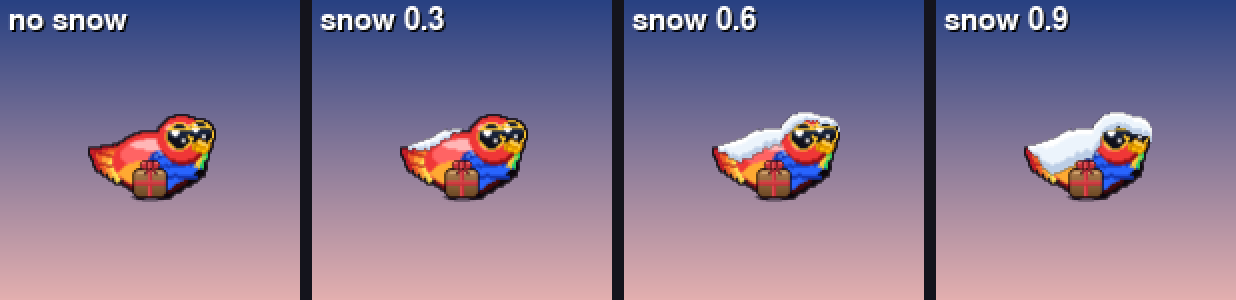
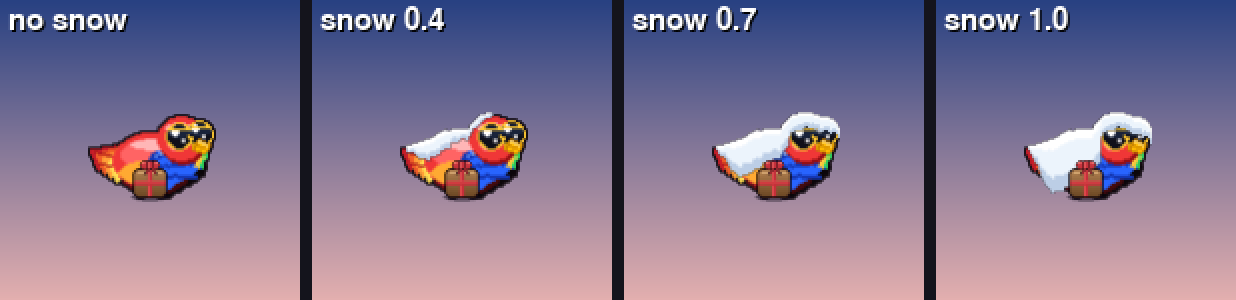
Snow round 3: slow gradual build/melt, bigger max, fix head jitter
- Timing: decouple melt from the storm fade. snow_load builds gradually
  (ACCUM 0.12->0.050) and melt stays ~0 until the storm has nearly passed
  (intensity < MELT_KNEE 0.12), then a slow MELT_RATE 0.035 clears it. Sim:
  reaches full ~285s, holds through the late squall, gone ~328s (was an
  ~8s spike).
- Bigger max: snow_fx MAXD 15->21 for a heavier pile at full load.
- Head jitter fix: rotate the snow overlay by the same 3deg-quantised tilt
  get_parrot uses, so it stays glued to the sprite during flaps (raw tilt
  shifted the head snow ~1px/frame).

https://claude.ai/code/session_01JWYQYgqQbSfQKYb7zu7YPg

diff --git a/game/world.py b/game/world.py
@@ -27,7 +27,7 @@ from game.config import (
     COIN_RUSH_INTERVAL, COIN_RUSH_GAP_BOOST, COIN_RUSH_COINS,
     WEATHER_HEAVY_THRESHOLD, WEATHER_COIN_SHAKE_AMP, WEATHER_PIP_SHIVER_AMP,
     WEATHER_FLAP_DAMPEN_MAX, WEATHER_WIND_LEAN_AMP, WEATHER_WIND_SCROLL_FACTOR,
-    WEATHER_SNOW_ACCUM_RATE, WEATHER_SNOW_MELT_BASE, WEATHER_SNOW_MELT_FADE,
+    WEATHER_SNOW_ACCUM_RATE, WEATHER_SNOW_MELT_RATE, WEATHER_SNOW_MELT_KNEE,
     THERMAL_SPAWN_THRESHOLD, THERMAL_SPAWN_CHANCE_MAX,
     GEYSER_MAX_CONCURRENT,
     ROCK_SPAWN_THRESHOLD, ROCK_PER_PILLAR_MAX, ROCK_RING_COUNT,
@@ -287,10 +287,12 @@ class World:
         else:
             self.bird.wind_lean = 0.0
 
-        # Windblown snow on Pip — gain ∝ storm; melt accelerates as it fades so
-        # the snow piles through the peak then sheds and clears near the end.
+        # Windblown snow on Pip — gradual build ∝ storm; melt held ~0 while the
+        # squall is active and only ramps in (slowly) once it has nearly passed,
+        # so the snow piles up, holds at max as the storm wanes, then clears slow.
         gain = WEATHER_SNOW_ACCUM_RATE * wi
-        melt = WEATHER_SNOW_MELT_BASE + WEATHER_SNOW_MELT_FADE * (1.0 - wi)
+        melt = WEATHER_SNOW_MELT_RATE * max(0.0, min(1.0,
+            (WEATHER_SNOW_MELT_KNEE - wi) / WEATHER_SNOW_MELT_KNEE))
         self.bird.snow_load = max(0.0, min(1.0,
             self.bird.snow_load + (gain - melt) * dt))
 

diff --git a/game/config.py b/game/config.py
@@ -159,12 +159,13 @@ WEATHER_WIND_LEAN_AMP     = 8.0
 WEATHER_WIND_SCROLL_FACTOR = 0.30
 
 # Windblown snow accumulating on Pip during the snow squall (visual only).
-# bird.snow_load (0..1) integrates: gain = ACCUM * storm_intensity, melt =
-# MELT_BASE + MELT_FADE * (1 - storm_intensity). Melt accelerates as the storm
-# fades, so snow piles through the peak then sheds and clears near the end.
-WEATHER_SNOW_ACCUM_RATE = 0.12
-WEATHER_SNOW_MELT_BASE  = 0.025   # melt while snowing hard
-WEATHER_SNOW_MELT_FADE  = 0.16    # extra melt as the storm fades out
+# bird.snow_load (0..1): gain = ACCUM * storm_intensity (gradual build through
+# the storm); melt stays ~0 while the storm is active and only ramps in once it
+# has nearly passed (storm intensity below MELT_KNEE), at the slow MELT_RATE —
+# so snow builds gradually, holds at max as the squall wanes, then clears slowly.
+WEATHER_SNOW_ACCUM_RATE = 0.050   # gradual build, ∝ storm intensity
+WEATHER_SNOW_MELT_RATE  = 0.035   # slow melt once the storm has nearly passed
+WEATHER_SNOW_MELT_KNEE  = 0.12    # melt held ~0 while storm intensity > this
 
 # ── Morning-thermal geysers ─────────────────────────────────────────────────
 # Ground geysers spawned during the thermal window. Spawn density + how many

diff --git a/game/entities.py b/game/entities.py
@@ -654,7 +654,10 @@ class Bird:
             if ov is not None:
                 from game.config import GROW_SCALE as _GS
                 bsc = (_GS if self.grow_active else 1.0) * self.shrink_scale
-                ov = pygame.transform.rotozoom(ov, tilt, bsc)
+                # Rotate by the SAME 3°-quantised tilt get_parrot uses, so the
+                # snow stays glued to the sprite (raw tilt jittered the head).
+                q = int(round(tilt / 3.0)) * 3
+                ov = pygame.transform.rotozoom(ov, q, bsc)
                 if flipped:
                     ov = pygame.transform.flip(ov, False, True)
                 rs = ov.get_rect(center=(cx_int, cy_int))

diff --git a/game/snow_fx.py b/game/snow_fx.py
@@ -21,7 +21,7 @@ import pygame
 from game import parrot
 
 # Snow depth + palette (sprite px; W2 tuning from the sketch).
-MAXD = 15.0
+MAXD = 21.0
 CORNICE = 1.6
 WHITE = (255, 255, 255)
 OFF = (236, 244, 252)
